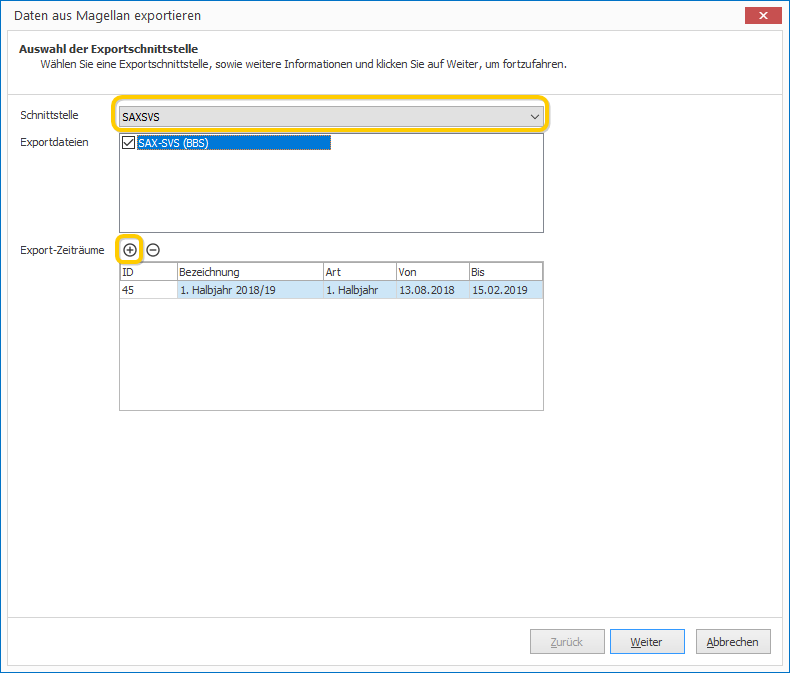
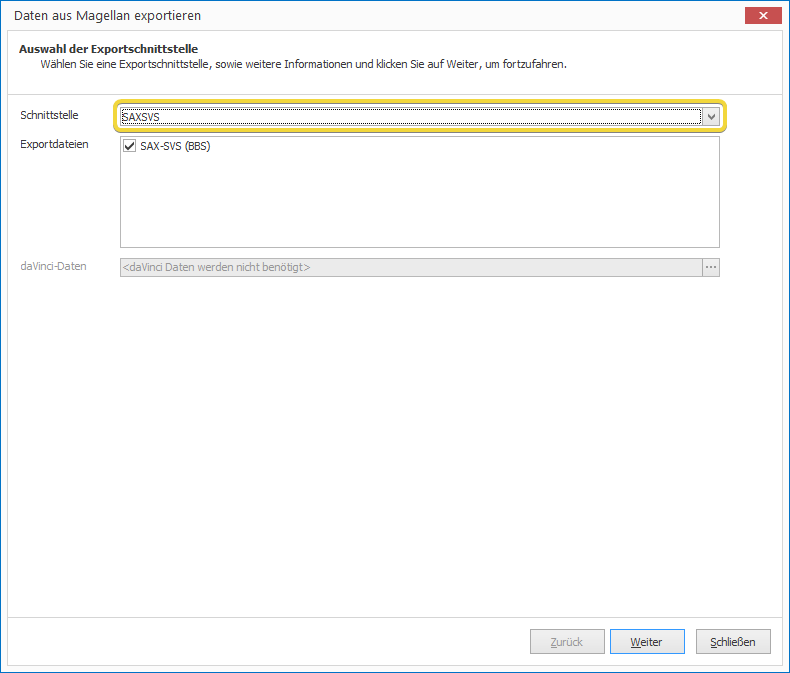
* Verbesserungen an der SAXSVS Dokumentation

diff --git a/docs/sachsen/saxsvs_xml.erzeugen.md b/docs/sachsen/saxsvs_xml.erzeugen.md
@@ -7,8 +7,8 @@ Das Ergebnis des Eports ist die bereits im [Einstieg](einstieg.md#einfuhrung) er
 Für die Erstellung der Schnittstellendatei rufen Sie bitte aus dem Menü `Schüler` den Reiter `Extras` auf und wählen den Unterpunkt `Export`.<br><br>
 ![Daten aus MAGELLAN exportieren über `Schüler > Exporte > Export...`](/assets/images/sachsen/export.saxsvs01.png)
 
-Es startet der Exportassistent, bitte wählen Sie die Schnittstelle `SAX-SVS (BBS)` und fügen über das Plus den gewünschten Exportzeitraum hinzu. Klicken Sie auf `Weiter`!<br><br>
-![Wählen Sie die Schnittstelle und den Zeitraum aus!](/assets/images/sachsen/export.saxsvs02.png)
+Es startet der Exportassistent, bitte wählen Sie die Schnittstelle `SAX-SVS (BBS)`. Klicken Sie auf `Weiter`!<br><br>
+![Wählen Sie die Schnittstelle aus!](/assets/images/sachsen/export.saxsvs02.png)
 
 Auf der Folgekarte wählen Sie einen Speicherort (Exportordner) und klicken auf `Weiter`!<br><br>
 ![Bitte wählen Sie einen Speicherort!](/assets/images/sachsen/export.saxsvs04.png)
@@ -18,10 +18,29 @@ Starten Sie die Erstellung der Exportdatei oder die Prüfung per Klick auf `Fert
 
 ## Mögliche Probleme
 
-Sollte Ihnen in der Auswahl im Exportassistenten nicht der Punkt `SAXSVS` gezeigt werden, ist vermutlich im Willkommensassistenten nicht die Bundeslandauswahl "Sachsen" getroffen worden.
+### In der Auswahl des Exportassistenten wird der Punkt `SAXSVS` nicht gezeigt
 
-### So geht's
+Vermutlich wurde bei der Einrichtung von MAGELLAN im Willkommensassistenten bei der Bundeslandauswahl nicht "Sachsen" ausgewählt.<br>
+
+#### So geht's
 
 1. Schließen Sie bitte MAGELLAN und starten Sie bitte den MAGELLAN ADMINISTRATOR und wechseln in den Menüpunkt `Datenbankverbindungen`.
 2. Klicken Sie doppelt auf Ihre Verbindungszeile, es öffnet sich das Fenster `Verbindungsdetails`.
 3. Rufen Sie den Punkt `Datenbank` auf und tragen im Feld `Region` "Sachsen" ein.<br>Im Anschluss starten Sie MAGELLAN wieder, unter `Extras > Export > Export...` sollte jetzt auch die Auswahl `SAXSVS` zur Verfügung stehen!
+
+### Bei der Auswahl von `SAXSVS` im Exportassistenten erscheint folgende Meldung
+
+```txt
+`Das Schuljahr konnte nicht ermittelt werden.`
+`Achten Sie bitte darauf, dass der Zeitraum passend zum heutigen Datum in MAGELLAN existiert.`
+
+Beim Klick auf `Weiter` im Exportassistenten erscheint daraufhin die Meldung `Geben Sie bitte mind. einen Zeitraum an`
+```
+
+Das Schuljahr konnte nicht ermittelt werden. Die geschieht, wenn Sie zum aktuellen Datum keinen passenden Zeitraum in MAGELLAN angelegt haben.
+
+#### So geht's
+
+1. Öffnen Sie das Dialogfenster der Verzeichnisse unter `Extras > Schlüsselverzeichnisse` und wechseln Sie in das Verzeichnis `Zeiträume`.
+2. Legen Sie dort über den Punkt `Schuljahre anlegen...` ein neues Schuljahr an, aber mindestens soviele, dass Sie das passende Schulhalbjahr zum Datum erhalten.
+3. Im neuen/In den neuen Schulhalbjahr(en) existieren noch keine Klassen- und Schülerdaten. Diese müssen Sie erst über den gewohnten Weg in MAGELLAN `Fortschreiben` und/oder `Versetzen` bevor Sie den Export erneut ausführen können.

diff --git a/docs/sachsen/einstieg.md b/docs/sachsen/einstieg.md
@@ -23,7 +23,7 @@ Allgemeine Informationen zum grundsätzlichen Verständnis von XML-Dateien finde
 Hier ein kleiner Ausschnitt aus der SaxSVS-Schnittstelle:
 
 ```xml
-<saxsvs-bbs xmlns:xsi="http://www.w3.org/2001/XMLSchema-instance" xsi:noNamespaceSchemaLocation="https://web1.extranet.sachsen.de/bbsp/public/XMLSchema/saxsvs-bbs-2.3.xsd" zeit="TDateTime Today (2001-12-17T09:30:47-05:00)"  schuljahr="Zeitraeume.Ausdruck2 (2018/2019)" dienststelle="Mandanten.Schulnummer">
+<saxsvs-bbs xmlns:xsi="http://www.w3.org/2001/XMLSchema-instance" xsi:noNamespaceSchemaLocation="https://web1.extranet.sachsen.de/bbsp/public/XMLSchema/saxsvs-bbs-2.3.xsd" zeit="TDateTime Today (2020-03-17T09:30:47-05:00)"  schuljahr="Zeitraeume.Ausdruck2 (2019/2020)" dienststelle="Mandanten.Schulnummer">
   <schueler extern_id="Schueler.ID">
     <an_vname>Schueler.Vorname</an_vname>
     <an_name>Schueler.Nachname</an_name>
@@ -68,6 +68,10 @@ SAXSVS.XML   | SAXSVS    | [Datenpflege zum Export der SAXSVS.XML](export_saxsvs
 
 #### Voraussetzungen für den Export
 
+!!! warning "Wichtig"
+
+    SAXSVS benötigt Daten aus dem aktuellen Schuljahr. Aus MAGELLAN Sicht können dies max. Daten aus dem 1. HJ und 2. HJ sein. Das aktuelle Schuljahr berechnet sich anhand des Exportdatums. Wenn sich der Export im 1.HJ befindet so werden Sie in der Exportdatei auch nur Daten aus dem 1. HJ des aktuellen Schuljahres finden. Wenn der Export im 2. HJ ausgeführt wird, so werden Sie in der Exportdatei Daten aus beiden Halbjahren finden.
+
 Damit die Schnittstellendatei korrekt erstellt und gefüllt werden kann, müssen in MAGELLAN bestimmte Datenfelder immer gefüllt werden. Ist einer der Felder nicht gefüllt erhalten Sie entsprechende Meldungen und der Export wird nicht durchgeführt.
 
 Ohne Angaben zur **Ausbildung** beim Schüler wird der Schüler nicht in die XML-Datei gespielt und Sie erhalten einen entsprechenden Hinweis beim Durchlauf.
@@ -76,7 +80,7 @@ Alle folgenden Felder der Ausbildung `müssen` gepflegt sein, sind damit `Pflich
 Titel            | Inhalt
 ---------------- | ------
 **Feld**         | -
-**Beschreibung** | `Schüler > Ausbildung > Aktuelle Ausbildung`<br/>Sie müssen dem Schüler für den zu exportierenden Zeitraum eine aktuelle Ausbildung zuweisen. Schüler ohne eine aktuelle Ausbildung im ausgewählten Exportzeitraum werden <b>nicht berücksichtigt</b>.
+**Beschreibung** | `Schüler > Ausbildung > Aktuelle Ausbildung`<br/>Sie müssen dem Schüler für den zu exportierenden Zeitraum eine aktuelle Ausbildung zuweisen. Schüler ohne eine aktuelle Ausbildung im Exportzeitraum werden <b>nicht berücksichtigt</b>.
 **Feld**         | `<schueler extern_id>`
 **Beschreibung** | `Schüler > Ausbildung > GUID`<br/>Wenn Sie  zum ersten mal in MAGELLAN 7 den Export durchlaufen, dann existieren noch keine GUIDs für bestehende aktuelle Ausbildungen. Diese werden dann angelegt und in der Datenbank gespeichert.
 **Feld**         |  `<al_kennziffer extern_id>`

diff --git a/docs/sachsen/export_saxsvs.md b/docs/sachsen/export_saxsvs.md
@@ -81,15 +81,15 @@ In der XML-Datei sieht das wie folgt aus:
 ```xml
 <saxsvs-bbs xmlns:xsi="http://www.w3.org/2001/XMLSchema-instance"
 xsi:noNamespaceSchemaLocation="https://web1.extranet.sachsen.de/bbsp/public/XMLSchema/saxsvs-bbs-2.3.xsd"
-zeit="TDateTime Today (2001-12-17T09:30:47-05:00)"
-schuljahr="Zeitraeume.Von (2017/2018)"
+zeit="TDateTime Today (2020-03-17T09:30:47-05:00)"
+schuljahr="Zeitraeume.Von (2019/2020)"
 dienststelle="Mandanten.Schulnummer">
 ```
 
 Feld in Schnittstelle       | Beschreibung
 --------------------------- | ------------
 `<saxsvs-bbs zeit>`         | Für dieses Feld wird automatisch ein aktueller Datums-/Zeitstempel beim Export eingefügt.
-`<saxsvs-bbs schuljahr>`    | `MAGELLAN > Verzeichnisse > Zeitraeume > Von`<br/> Aus dem Eintrag wird der geforderte Wert im Format `JJJJ/JJJJ` gebildet, als Beispiel: 2018/2019
+`<saxsvs-bbs schuljahr>`    | `MAGELLAN > Verzeichnisse > Zeitraeume > Von`<br/> Aus dem Eintrag wird der geforderte Wert im Format `JJJJ/JJJJ` gebildet, als Beispiel: 2019/2020
 `<saxsvs-bbs dienststelle>` | `MAGELLAN > Mandanten > Daten 1 > Schulnummer`<br/>7-stellige Dienststellennummer vom Amt
 
 #### Schüler  
